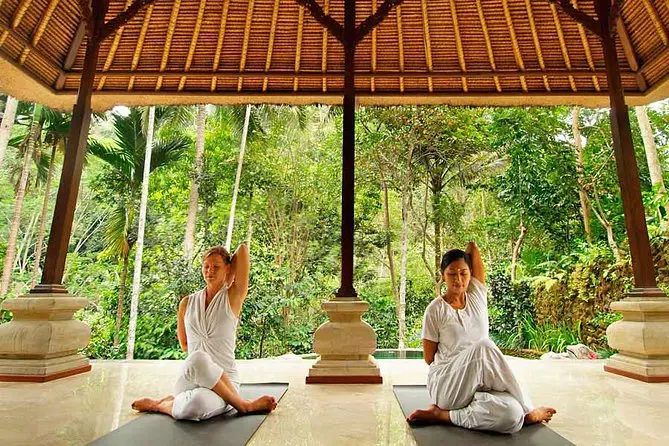
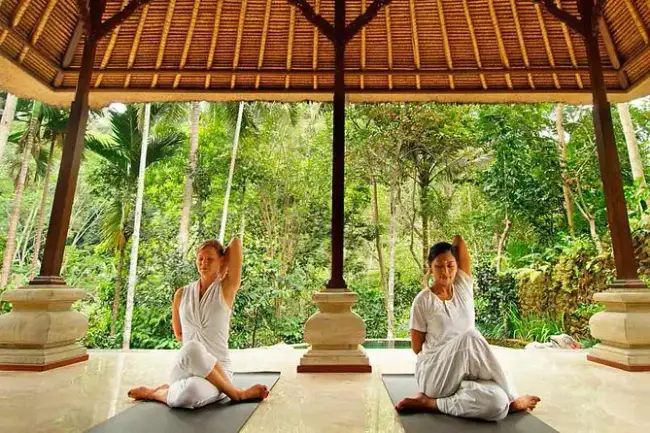
Final performance polish: unified single CSS bundle, explicit badge dimensions, compressed last 3 images

diff --git a/vite.config.js b/vite.config.js
@@ -68,7 +68,7 @@ export default defineConfig({
   ],
   build: {
     target: 'esnext',
-    cssCodeSplit: true,
+    cssCodeSplit: false,
     chunkSizeWarningLimit: 800,
     rollupOptions: {
       output: {
